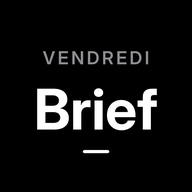
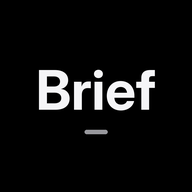
Icône simplifiée « Brief » et version adaptative pour Android
Claude-Session: https://claude.ai/code/session_01BobTGCZGQVPwdZS3dMtWyp

Changed region(s): [[0.1875, 0.25, 0.8438, 0.7188], [0.4062, 0.7812, 0.5938, 0.8125]]

diff --git a/sw.js b/sw.js
@@ -1,6 +1,6 @@
 /* Brief du vendredi : cache de l'app pour un usage hors ligne. Les données (api.github.com) ne passent pas par ce cache. */
-const CACHE = "brief-app-v1";
-const SHELL = ["./", "index.html", "manifest.webmanifest", "icons/icon-192.png", "icons/icon-512.png"];
+const CACHE = "brief-app-v2";
+const SHELL = ["./", "index.html", "manifest.webmanifest", "icons/icon-192.png", "icons/icon-512.png", "icons/icon-maskable-192.png", "icons/icon-maskable-512.png"];
 self.addEventListener("install", (e) => {
   e.waitUntil(caches.open(CACHE).then((c) => c.addAll(SHELL)).then(() => self.skipWaiting()));
 });
